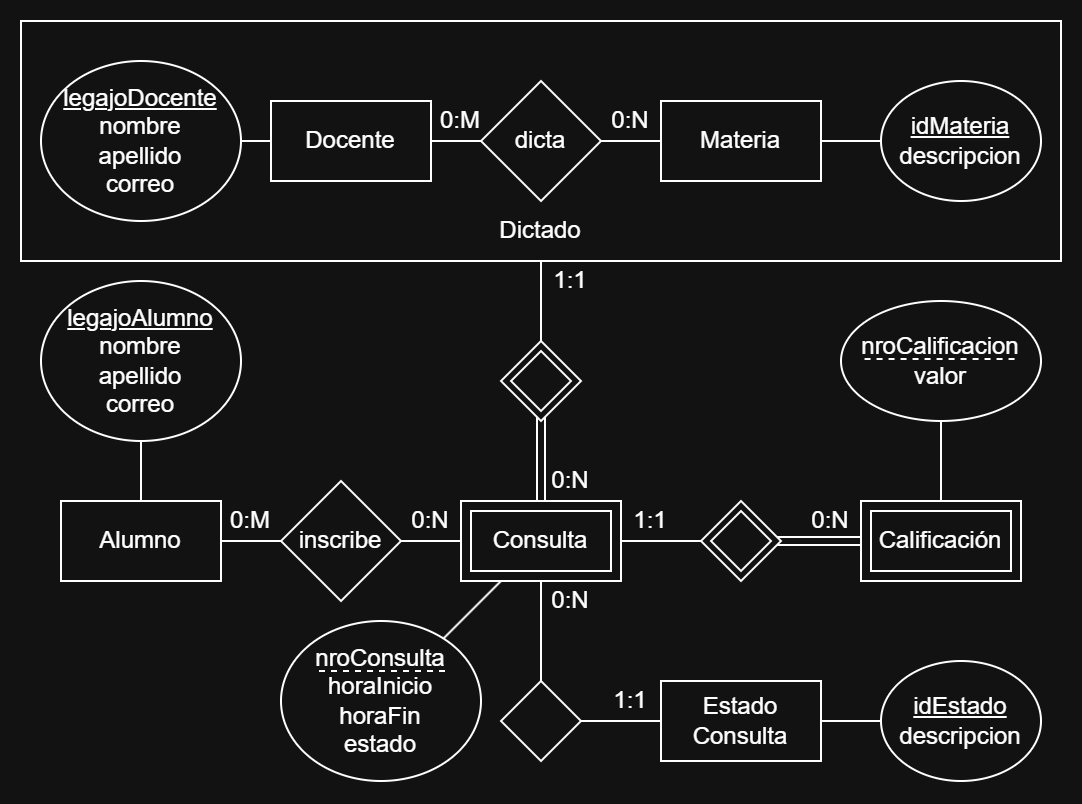
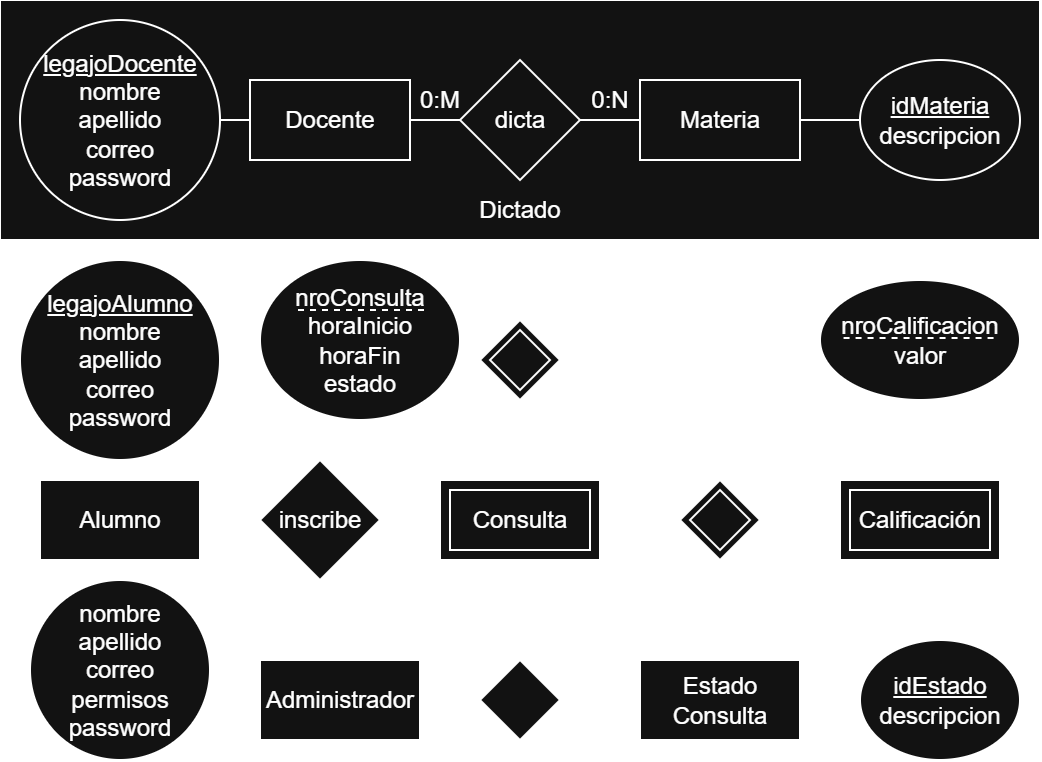
Update proposal.md para entrega final

diff --git a/proposal.md b/proposal.md
@@ -23,16 +23,16 @@ El sistema le otorgará al usuario (alumno o docente), las herramientas necesari
 Regularidad:
 |Req|Detalle|
 |:-|:-|
-|CRUD simple|1. CRUD Alumno<br>2. CRUD Docente|
-|CRUD dependiente|1. CRUD Calificacion depende de CRUD Consulta<br>2. CRUD Dictado depende de CRUD Docente y CRUD Materia|
-|Listado<br>+<br>detalle| 1. Listado de consultas por profesor y/o materia (para alumnos), muestra horario de las consulta, nombre completo del profesor y descripción de la materia => detalle CRUD Inscripción<br> 2. Listado de consultas por materia (para docentes), muestra horario de las consultas, descripción de la materia => detalle CRUD Consulta|
+|CRUD simple|1. CRUD Docente<br>2. CRUD Materia|
+|CRUD dependiente|1. CRUD Dictado depende de CRUD Docente y CRUD Materia|
+|Listado<br>+<br>detalle|1. Listado de consultas filtrado por profesor, materia, fecha y rango de horario, muestra nombre completo del profesor, descripción de la materia, fecha de la consulta, hora de inicio y fin de la consulta => detalle muestra datos completos de la consulta, permite al alumno inscribirse y permite al docente modificar o eliminar la consulta<br>2. Listado de docentes filtrado por materia, muestra nombre, apellido y correo => detalle redirecciona al listado de consultas para dicho docente<br>3. Listado de materias filtrado por docente, muestra descripción => detalle redirecciona al listado de consultas para dicha materia<br>4. Listado de docentes (para administradores), muestra id, legajo, nombre, apellido y correo => CRUD Docente<br>5. Listado de materias (para administradores), muestra id y descripción => CRUD Materia |
 |CUU/Epic|1. Definir un horario de consulta (docente)<br>2. Realizar inscripción a un horario de consulta (alumno)|
 
 
 Adicionales para Aprobación
 |Req|Detalle|
 |:-|:-|
-|CRUD |1. CRUD Alumno<br>2. CRUD Docente<br>3. CRUD Materia<br>4. CRUD Calificacion<br>5. CRUD Dictado|
+|CRUD |1. CRUD Alumno<br>2. CRUD Docente<br>3. CRUD Materia<br>5. CRUD Dictado (depende de CRUD Docente y CRUD Materia)<br>5. CRUD Consulta (depende de CRUD Dictado)<br>6. CRUD Calificacion (depende de CRUD Consulta)|
 |CUU/Epic|1. Definir un horario de consulta (docente)<br>2. Realizar inscripción a un horario de consulta (alumno)<br>3. Cancelar un horario de consulta (docente)<br>4. Eliminar inscripción a un horario de consulta (alumno)|
 
 

diff --git a/docs/Modelo_Relacional.md b/docs/Modelo_Relacional.md
@@ -1,10 +1,13 @@
 # Modelo Relacional
 Las siguientes relaciones (tablas) fueron obtenidas a partir del [Modelo Entidad-Relación](/docs/Modelo_Entidad-Relacion.png) mostrado en el archivo [proposal.md](/proposal.md)
 
-Alumnos(**legajoAlumno**, nombre, apellido, correo) \
+Administradores(nombre, apellido, **correo**) \
+&nbsp;&nbsp;&nbsp;&nbsp;correo → CP
+
+Alumnos(**legajoAlumno**, nombre, apellido, correo, password) \
 &nbsp;&nbsp;&nbsp;&nbsp;legajoAlumno → CP
 
-Docentes(**legajoDocente**, nombre, apellido, correo) \
+Docentes(**legajoDocente**, nombre, apellido, correo, password) \
 &nbsp;&nbsp;&nbsp;&nbsp;legajoDocente → CP
 
 Materias(**idMateria**, descripcion) \
